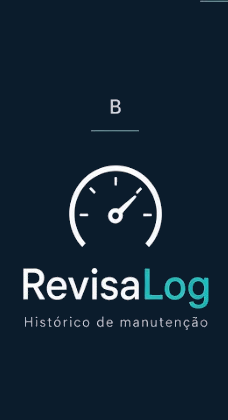
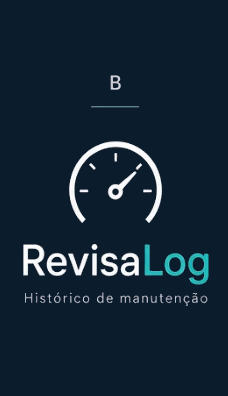
fix(brand): adaptive launcher sem moldura dupla no Android

diff --git a/scripts/crop-brand-assets.php b/scripts/crop-brand-assets.php
@@ -36,8 +36,9 @@ $crops = [
     'app-icon.png' => crop($sheet3, 790, 250, 200, 200, solidNavyBg: true),
     'lockup-horizontal.png' => crop($sheet2, 517, 245, 447, 108, solidNavyBg: true),
     'lockup-horizontal-tagline.png' => crop($sheet2, 72, 79, 486, 127, solidNavyBg: true),
-    'lockup-stacked.png' => crop($sheet3, 24, 108, 228, 420, solidNavyBg: true),
-    'lockup-stacked-bar.png' => crop($sheet3, 272, 108, 228, 420, solidNavyBg: true),
+    // Skip the A/B caption row above each stacked lockup on sheet-3.
+    'lockup-stacked.png' => crop($sheet3, 24, 132, 228, 396, solidNavyBg: true),
+    'lockup-stacked-bar.png' => crop($sheet3, 272, 132, 228, 396, solidNavyBg: true),
     'og-image.png' => buildOgImage($sheet2),
 ];
 
@@ -195,6 +196,24 @@ function resize(\GdImage $source, int $w, int $h): \GdImage
  *
  * @param  float  $contentRatio  Fraction of the canvas the source should occupy (0–1).
  */
+/**
+ * Variation D includes a teal rounded-rect frame. Android adaptive icons mask the
+ * foreground again, so keep only the inner odometer for ic_launcher_foreground.
+ */
+function innerAppMark(\GdImage $appIcon): \GdImage
+{
+    $w = imagesx($appIcon);
+    $h = imagesy($appIcon);
+    $inset = (int) round(min($w, $h) * 0.15);
+    $innerW = $w - (2 * $inset);
+    $innerH = $h - (2 * $inset);
+
+    $cropped = imagecreatetruecolor($innerW, $innerH);
+    imagecopy($cropped, $appIcon, 0, 0, $inset, $inset, $innerW, $innerH);
+
+    return compositeOnExactNavy($cropped);
+}
+
 function resizeWithSafeZone(\GdImage $source, int $size, float $contentRatio = 0.84): \GdImage
 {
     $dest = imagecreatetruecolor($size, $size);
@@ -294,7 +313,9 @@ function generateAppIcons(string $sourcePath, string $frontendRoot): void
 
     $adaptiveDir = "{$frontendRoot}/android/app/src/main/res/drawable";
     if (is_dir($adaptiveDir)) {
-        $foreground = resizeWithSafeZone($source, 432, 0.72);
+        $mark = innerAppMark($source);
+        $foreground = resizeWithSafeZone($mark, 432, 0.78);
+        imagedestroy($mark);
         savePng($foreground, "{$adaptiveDir}/ic_launcher_foreground.png");
         savePng($foreground, "{$adaptiveDir}/ic_launcher.png");
         imagedestroy($foreground);

diff --git a/tests/Unit/BrandAppIconCropTest.php b/tests/Unit/BrandAppIconCropTest.php
@@ -17,6 +17,24 @@ class BrandAppIconCropTest extends TestCase
         imagedestroy($image);
     }
 
+    public function test_android_adaptive_foreground_drops_the_teal_card_frame(): void
+    {
+        $path = dirname(__DIR__, 3).'/frontend/android/app/src/main/res/drawable/ic_launcher_foreground.png';
+        $image = $this->loadPng($path);
+
+        $cornerTeal = $this->countMatchingPixels(
+            $image,
+            0,
+            0,
+            (int) floor(imagesx($image) * 0.12),
+            (int) floor(imagesy($image) * 0.12),
+            $this->isTeal(...),
+        );
+        $this->assertLessThan(40, $cornerTeal, 'Adaptive foreground still has the outer teal frame in the mask corners.');
+
+        imagedestroy($image);
+    }
+
     public function test_ios_marketing_icon_keeps_the_odometer_inside_the_safe_zone(): void
     {
         $path = dirname(__DIR__, 3).'/frontend/ios/Runner/Assets.xcassets/AppIcon.appiconset/Icon-App-1024x1024@1x.png';

diff --git a/.ai/rules/scripts.md b/.ai/rules/scripts.md
@@ -6,4 +6,4 @@ paths:
 # Scripts
 
 ## App icon is variation D, not the D label
-App icon is variation D on sheet-3-abcd.jpg: crop(790, 250, 200, 200). Never use (772, 108, 248, 248) — that captures the D caption and only the top of the odometer. generateAppIcons must inset the mark (~0.84) on #0B1C2C so the iOS squircle does not clip it. Hot reload does not update home-screen icons; uninstall/reinstall the sim app.
+App icon is variation D on sheet-3-abcd.jpg: crop(790, 250, 200, 200). Never use (772, 108, 248, 248) — that captures the D caption and only the top of the odometer. generateAppIcons must inset the mark (~0.84) on #0B1C2C so the iOS squircle does not clip it. Android adaptive `ic_launcher_foreground` uses `innerAppMark()` (drops the teal card frame) so the launcher mask does not show a double ring. Stacked lockups on sheet-3 start at y=132, not 108, to skip the A/B captions. Hot reload does not update home-screen icons; uninstall/reinstall the sim app.
